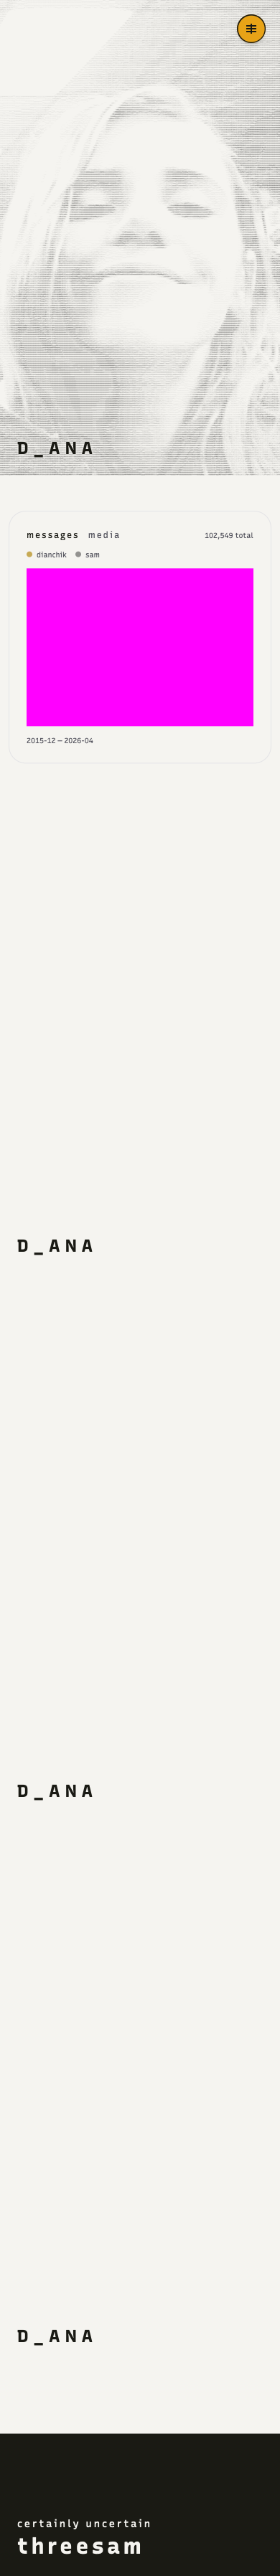
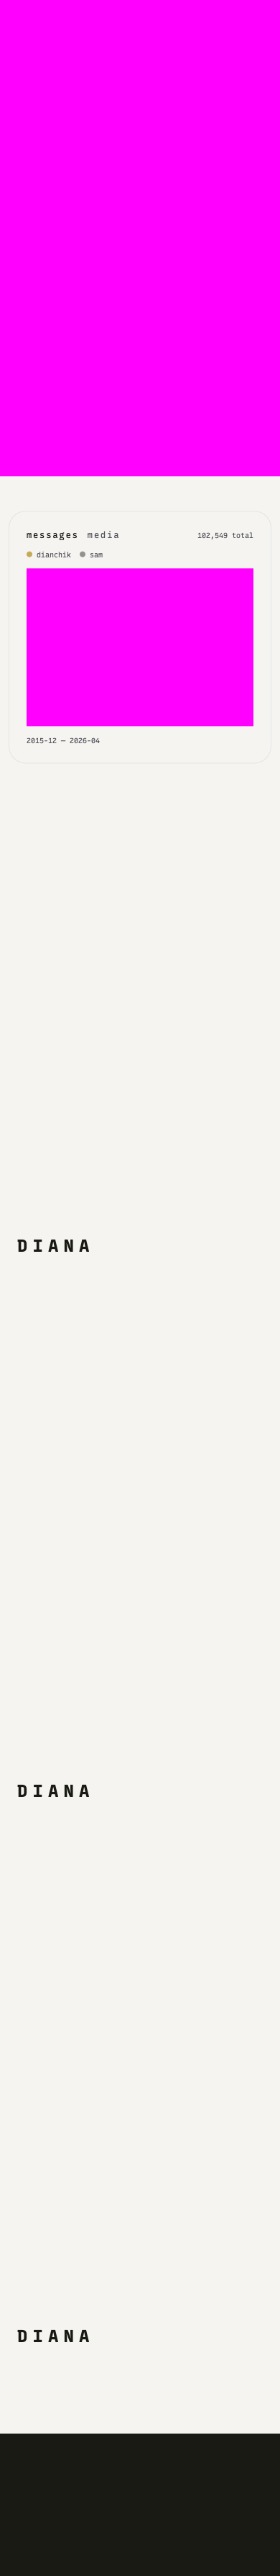
perf(deana): keep /deana on runtime canvas for infinite-resolution scaling
Revert the /deana sections to the runtime <canvas> ASCII renderer (AsciiImage)
so the full-bleed sections stay crisp at any viewport size / DPR — a baked 900w
image softens when upscaled. Only the homepage gallery card (the actual
critical-path script-eval cost) stays pre-baked as a static <img>.

- images.ts: add DEANA_PHOTOS (raw paths) for the /deana canvas; DEANA_ASCII
  (baked) remains for the card. Both derived from one ASCII_BASES list.
- AsciiImageSection: back to <AsciiImage> canvas; /deana renders DEANA_PHOTOS.
- visual baseline restored to match main (/deana canvas is masked in the suite).

The /deana canvas script-eval is on that lazy sub-route, not the homepage, so
the homepage win (script-eval 2013->876ms, TBT 630->160ms, score 79->85) is intact.

diff --git a/src/lib/components/messages/AsciiImageSection.svelte b/src/lib/components/messages/AsciiImageSection.svelte
@@ -1,13 +1,17 @@
 <script lang="ts">
+	import AsciiImage from './AsciiImage.svelte';
 	import DanaLabel from './DanaLabel.svelte';
 	import LazyMount from '$lib/components/LazyMount.svelte';
-	import { asciiSrcset, type AsciiSrc } from '$lib/deana/images.js';
 
 	interface Props {
-		src: AsciiSrc;
+		src: string;
+		/** Optional secondary src for crossfade cycling. */
+		altSrcs?: string[];
 	}
 
-	let { src }: Props = $props();
+	let { src, altSrcs }: Props = $props();
+
+	const srcs = $derived(altSrcs?.length ? [src, ...altSrcs] : [src]);
 </script>
 
 <section
@@ -15,14 +19,7 @@
 	style="background-color: var(--white); content-visibility: auto; contain-intrinsic-size: 100vw 100dvh;"
 >
 	<LazyMount class="absolute inset-0">
-		<img
-			src={src.lg}
-			srcset={asciiSrcset(src)}
-			sizes="100vw"
-			alt=""
-			class="h-full w-full object-cover"
-			loading="lazy"
-		/>
+		<AsciiImage {srcs} class="h-full w-full" />
 	</LazyMount>
 	<span
 		class="pointer-events-none absolute bottom-6 left-6 z-10 font-mono text-2xl font-bold uppercase tracking-[0.3em] md:bottom-10 md:left-10 md:text-5xl"

diff --git a/src/lib/deana/images.ts b/src/lib/deana/images.ts
@@ -1,8 +1,9 @@
-// Pre-baked ASCII renders of the deana photos (see scripts/generate-deana-ascii.mjs).
-// The raw source photos live in static/assets and are the build-time inputs to that
-// script; at runtime the app only references these baked prints, so the homepage card
-// + /deana sections don't convert pixels to ASCII in JS on load. `sm` is for the small
-// homepage card, `lg` for full-width /deana sections — wired up via srcset.
+// The deana photos drive two ASCII render paths:
+//  - DEANA_PHOTOS (raw webp): the /deana page renders these to ASCII on a <canvas>
+//    at runtime (AsciiImage) so its full-bleed sections stay crisp at any size/DPR.
+//  - DEANA_ASCII (pre-baked, see scripts/generate-deana-ascii.mjs): the homepage
+//    gallery card shows these static prints instead of running the ~960ms ASCII
+//    conversion on the homepage's critical path. sm = card, lg = retina, via srcset.
 const ASCII_BASES = [
 	"deana-6",
 	"deana-5",
@@ -16,6 +17,8 @@ export interface AsciiSrc {
 	sm: string;
 	lg: string;
 }
+
+export const DEANA_PHOTOS: string[] = ASCII_BASES.map((base) => `/assets/${base}.webp`);
 
 export const DEANA_ASCII: AsciiSrc[] = ASCII_BASES.map((base) => ({
 	sm: `/assets/deana-ascii/${base}-sm.webp`,

diff --git a/src/routes/deana/+page.svelte b/src/routes/deana/+page.svelte
@@ -4,7 +4,7 @@
   import LazyMount from "$lib/components/LazyMount.svelte";
   // AsciiImageSection is above-the-fold — keep eager.
   import AsciiImageSection from "$lib/components/messages/AsciiImageSection.svelte";
-  import { DEANA_ASCII } from "$lib/deana/images.js";
+  import { DEANA_PHOTOS } from "$lib/deana/images.js";
 
   // All below-the-fold components are dynamically imported so their
   // modules are excluded from the initial page bundle.
@@ -42,7 +42,7 @@
 />
 
 <main style="background-color: var(--white);">
-  <AsciiImageSection src={DEANA_ASCII[0]} />
+  <AsciiImageSection src={DEANA_PHOTOS[0]} />
 
   <section
     class="w-full px-3 py-12 md:px-6 md:py-24"
@@ -60,7 +60,7 @@
     </div>
   </section>
 
-  <AsciiImageSection src={DEANA_ASCII[1]} />
+  <AsciiImageSection src={DEANA_PHOTOS[1]} />
 
   <section
     class="w-full px-3 py-12 md:px-6 md:py-24"
@@ -78,7 +78,7 @@
     </div>
   </section>
 
-  <AsciiImageSection src={DEANA_ASCII[2]} />
+  <AsciiImageSection src={DEANA_PHOTOS[2]} />
 
   <section
     class="w-full px-3 py-12 md:px-6 md:py-24"
@@ -118,7 +118,7 @@
     </div>
   </section>
 
-  <AsciiImageSection src={DEANA_ASCII[3]} />
+  <AsciiImageSection src={DEANA_PHOTOS[3]} />
 
   <section
     class="w-full px-3 py-12 md:px-6 md:py-24"